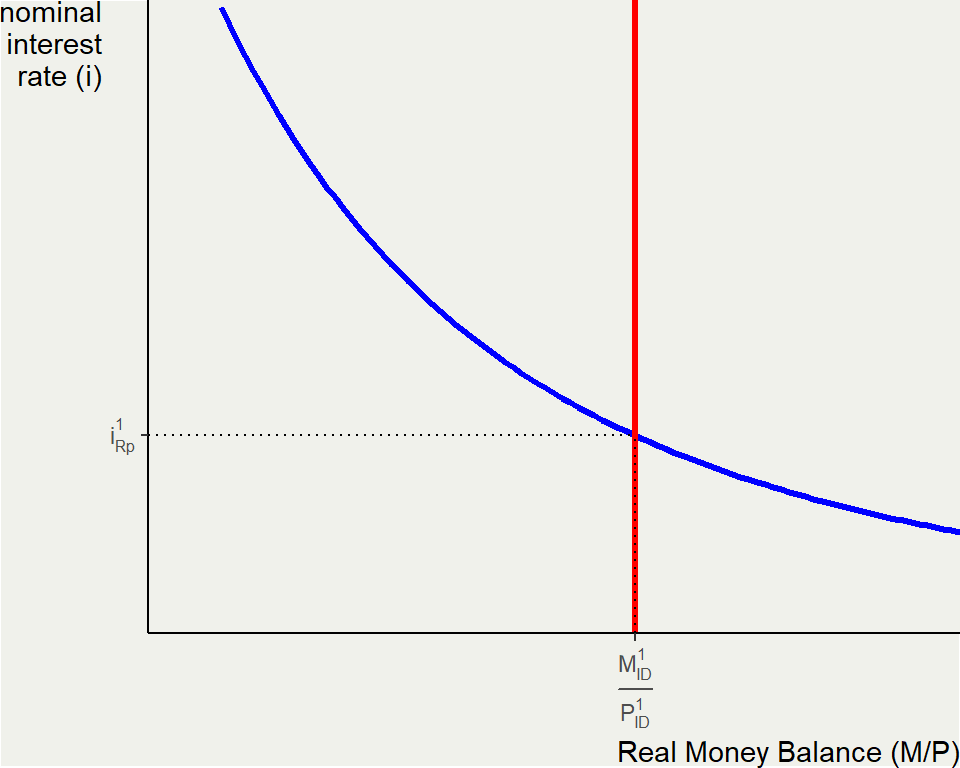
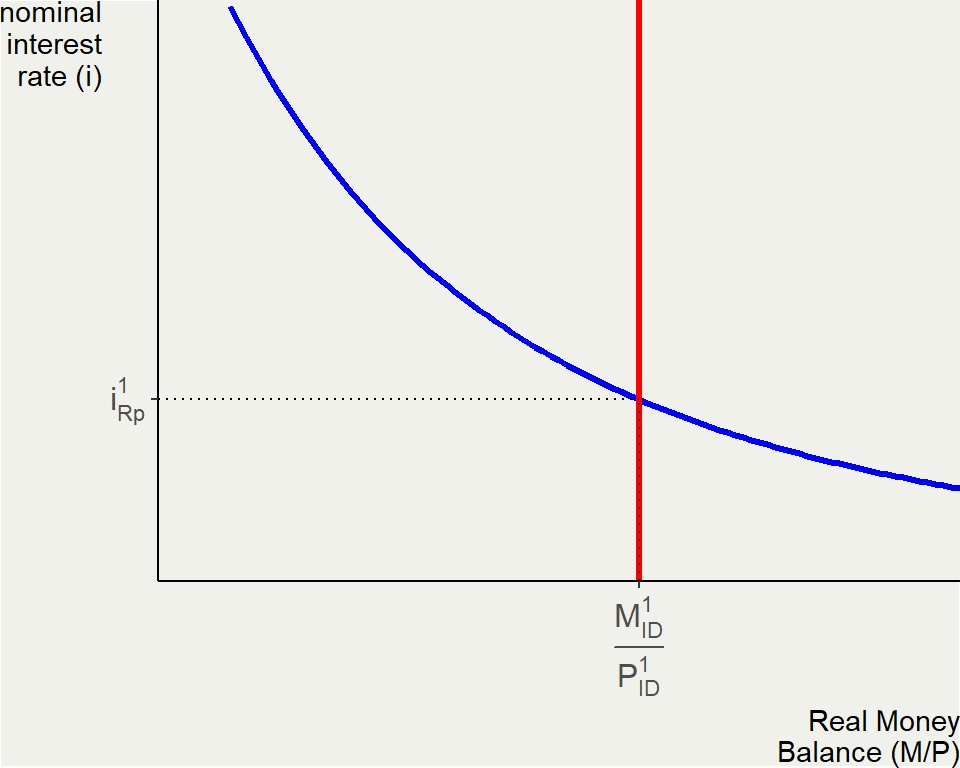
s

diff --git a/static/intfin/meeting4/index.html b/static/intfin/meeting4/index.html
@@ -519,10 +519,60 @@ i_{Rp}=i_\$+\frac{E^e_{Rp/\$}-E_{Rp/\$}}{E_{Rp/\$}}
 \end{equation}\]</span></p>
 <p>Remember, money supply is controlled by the central bank.</p>
 </section>
-<section id="wew" class="slide level2">
-<h2>wew</h2>
-
-<img data-src="index_files/figure-revealjs/unnamed-chunk-7-1.png" width="480" class="r-stretch"><div class="quarto-auto-generated-content">
+<section id="short-run-equilibrium-2" class="slide level2 m">
+<h2>Short run equilibrium</h2>
+<div class="columns">
+<div class="column" style="width:47%;">
+<div class="cell">
+<div class="cell-output-display">
+<div>
+<figure>
+<p><img data-src="index_files/figure-revealjs/unnamed-chunk-7-1.png" width="480"></p>
+</figure>
+</div>
+</div>
+</div>
+</div><div class="column" style="width:47%;">
+<p>The mney supply curve (red line) is vertical because it does not depends on domestic interest rate. Money demand curve (blue line) is downward sloping amid interest rate increase leads to lower money demand.</p>
+<p>The money market equilibrium is at <span class="math inline">\(i^1_{Rp}\)</span> because it is where demand equals supply.</p>
+</div></div>
+</section>
+<section id="short-run-equilibrium-3" class="slide level2 m">
+<h2>Short run equilibrium</h2>
+<div class="columns">
+<div class="column" style="width:47%;">
+<div class="cell">
+<div class="cell-output-display">
+<div>
+<figure>
+<p><img data-src="index_files/figure-revealjs/unnamed-chunk-8-1.png" width="480"></p>
+</figure>
+</div>
+</div>
+</div>
+</div><div class="column" style="width:47%;">
+<h4 id="increase-in-money-supply">Increase in money supply</h4>
+<p>With a fixed price level <span class="math inline">\(P_{ID}^1\)</span>, an increase in nominal money supply from <span class="math inline">\(M^1_{ID}\)</span> to <span class="math inline">\(M^2_{ID}\)</span> will increase real money supply from <span class="math inline">\(\frac{M^1_{ID}}{P_{ID}^1}\)</span> to <span class="math inline">\(\frac{M^2_{ID}}{P_{ID}^1}\)</span>. If nothing else happens on the demand curve, then the equilibrium interest rate is going down.</p>
+</div></div>
+</section>
+<section id="short-run-equilibrium-4" class="slide level2 m">
+<h2>Short run equilibrium</h2>
+<div class="columns">
+<div class="column" style="width:47%;">
+<div class="cell">
+<div class="cell-output-display">
+<div>
+<figure>
+<p><img data-src="index_files/figure-revealjs/unnamed-chunk-9-1.png" width="384"></p>
+</figure>
+</div>
+</div>
+</div>
+</div><div class="column" style="width:47%;">
+<h4 id="increase-in-money-demand">Increase in money demand</h4>
+<p>Suppose real income <span class="math inline">\(Y\)</span> in Indonesia goes up, then <span class="math inline">\(\frac{M^d}{P}\)</span> goes up, causing demand curve shifts to the right. If money supply stays the same, then the higher demand for money will rise interest rate in the equilibrium.</p>
+</div></div>
+<div class="quarto-auto-generated-content">
 <div class="footer footer-default">
 
 </div>
